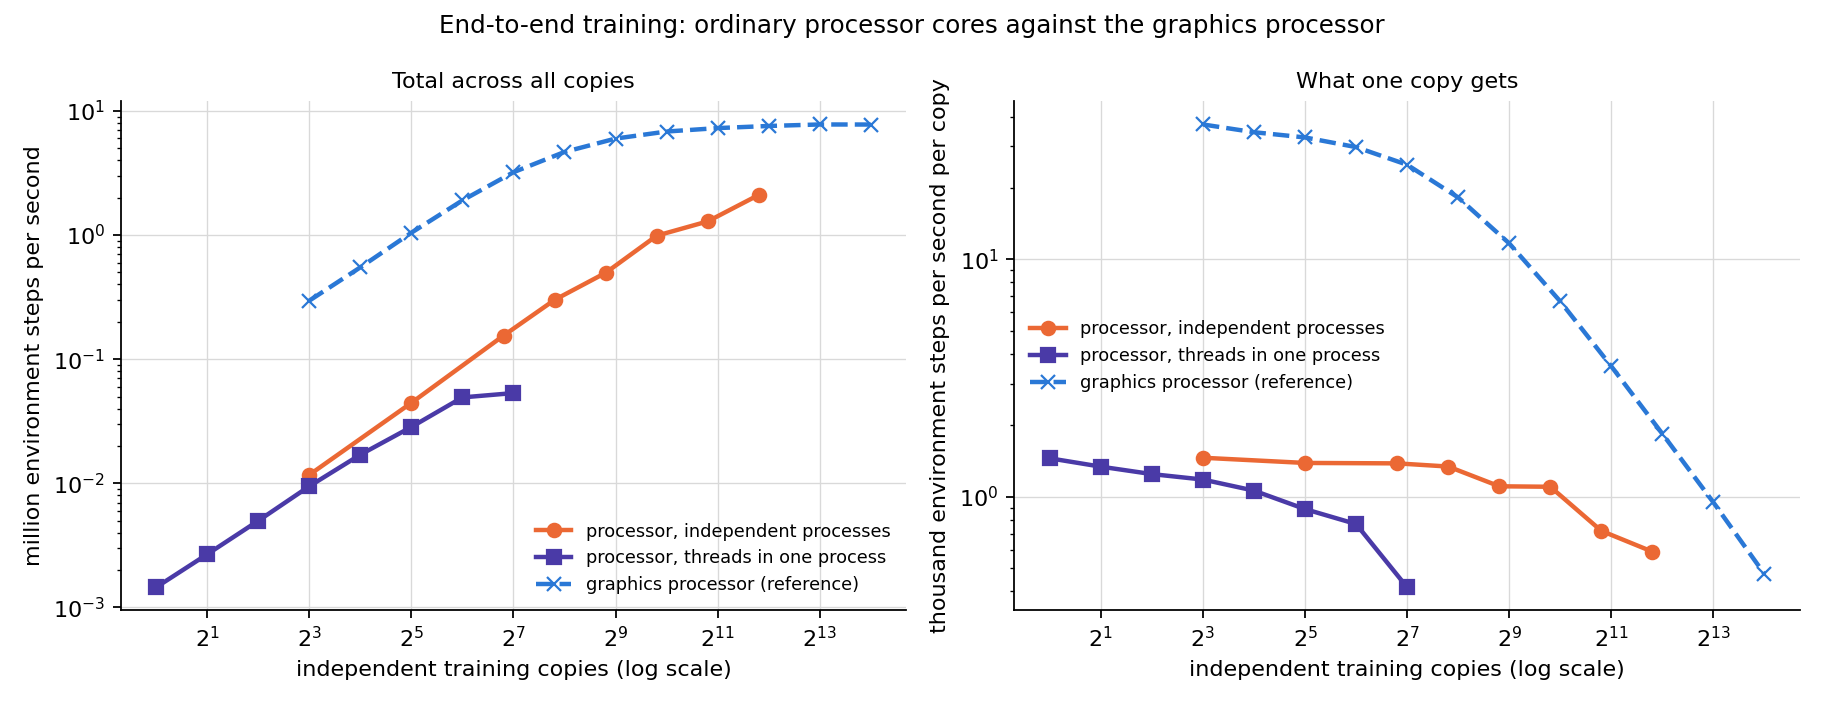
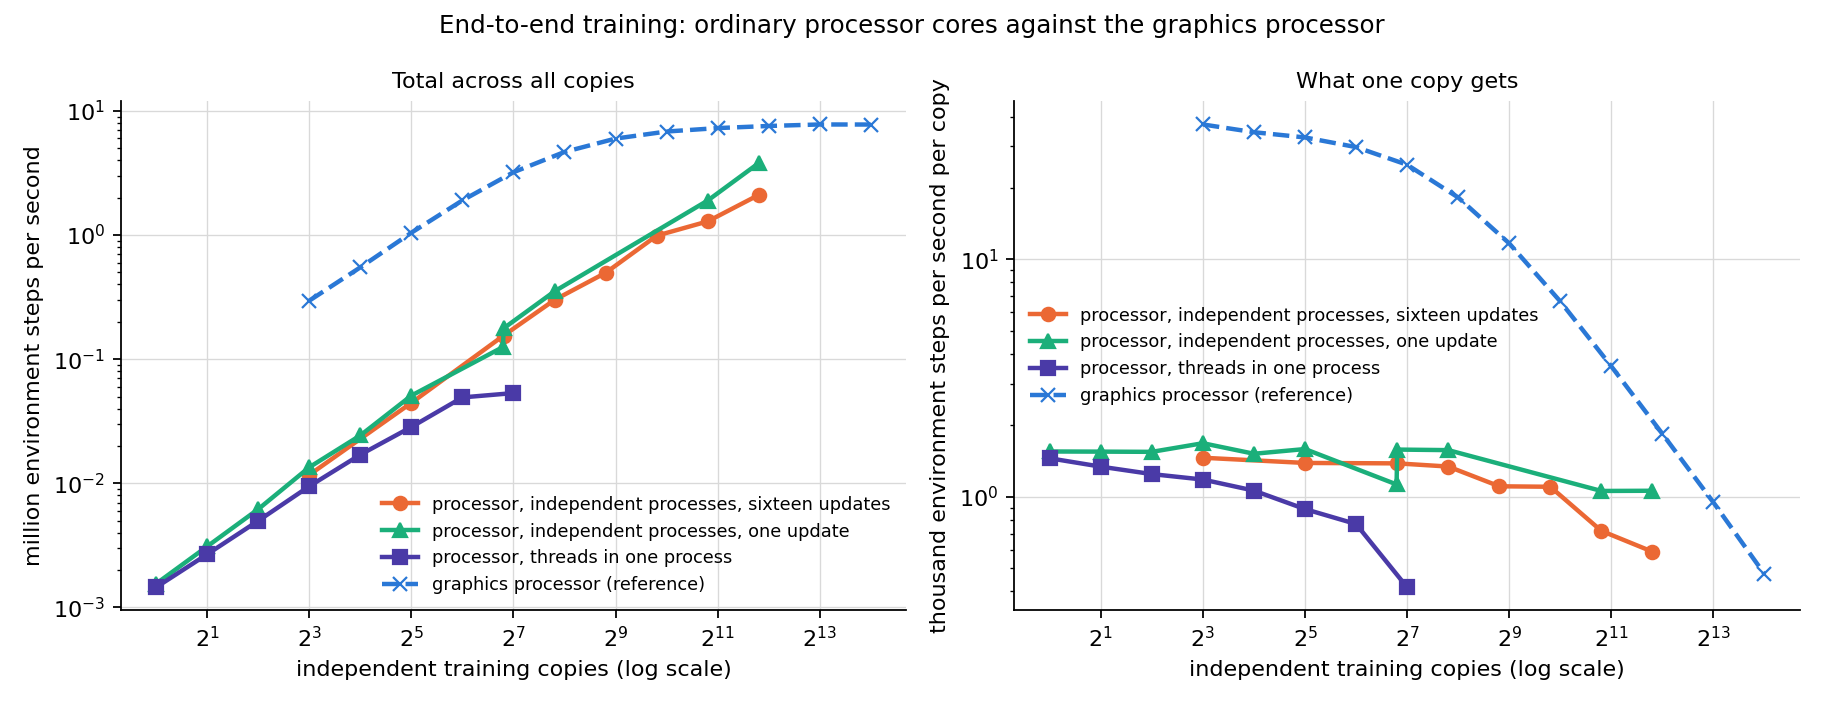
processor tables: name the copies column unambiguously
The sweep runs one copy per worker, so a single copies column equalled the worker count and gave
no way to tell whether it meant copies in total or copies on each worker. Split into copies per
worker and copies in total.

diff --git a/09_parallelization/report/2026-08-15-pointmaze-gpu-parallelization/code/cpu_node_comparison.py b/09_parallelization/report/2026-08-15-pointmaze-gpu-parallelization/code/cpu_node_comparison.py
@@ -212,11 +212,15 @@ def throughput_table(rows, note):
     """A throughput table in the project's standard columns, one row per worker count."""
     if not rows:
         return "\n*PENDING — waiting on the measurement.*\n"
-    md = ("| worker processes | copies | seconds per iteration | million steps per second | "
-          "thousand steps per second per copy | hours per million steps per copy |\n"
-          "|---|---|---|---|---|---|\n")
+    # the copies-per-worker column is 1 throughout this sweep, which is exactly why it is here:
+    # without it the copies column equals the worker count and a reader cannot tell whether it
+    # means copies in total or copies on each worker
+    md = ("| worker processes | copies per worker | copies in total | seconds per iteration | "
+          "million steps per second | thousand steps per second per copy | "
+          "hours per million steps per copy |\n|---|---|---|---|---|---|---|\n")
     for r in rows:
-        md += (f"| {r['workers']} | {r['total_copies']} | {r['sec_per_iteration']:.3f} | "
+        md += (f"| {r['workers']} | {r['total_copies'] // r['workers']} | {r['total_copies']} | "
+               f"{r['sec_per_iteration']:.3f} | "
                f"{M(r['env_steps_per_sec'])} | {K(r['env_steps_per_sec_per_copy'])} | "
                f"{H(r['env_steps_per_sec_per_copy'])} |\n")
     return md + f"\n*{note}*\n\n"

diff --git a/09_parallelization/report/2026-08-15-pointmaze-gpu-parallelization/report.md b/09_parallelization/report/2026-08-15-pointmaze-gpu-parallelization/report.md
@@ -34,12 +34,13 @@ what each round changed, then the training campaign and the sweep.
 | [What made it fast (and what did not)](#what-made-it-fast-and-what-did-not) | 2026-08-15 00:22 PT | 2026-08-15 00:22 PT | read |
 | [Reproduction](#reproduction) | 2026-08-15 00:22 PT | 2026-08-15 00:22 PT | read |
 | [How far from the hardware ceiling](#how-far-from-the-hardware-ceiling) | 2026-08-15 15:46 PT | 2026-08-15 15:46 PT | read |
-| [The same work on ordinary processor cores](#the-same-work-on-ordinary-processor-cores) | 2026-08-15 15:46 PT | 2026-08-15 16:35 PT | read |
+| <span class="updated">[The same work on ordinary processor cores](#the-same-work-on-ordinary-processor-cores)</span> | 2026-08-15 15:46 PT | 2026-08-15 17:25 PT | updated |
 | [Which implementation to use](#which-implementation-to-use) | 2026-08-15 15:46 PT | 2026-08-15 15:57 PT | read |
 | [Feature parity between the two trainers](#feature-parity-between-the-two-trainers) | 2026-08-15 15:46 PT | 2026-08-15 15:46 PT | read |
 | [Round four — closing the distance between the two trainers](#round-four-closing-the-distance-between-the-two-trainers) | 2026-08-15 15:57 PT | 2026-08-15 15:57 PT | read |
-| [End-to-end training on a dedicated processor node](#end-to-end-training-on-a-dedicated-processor-node) | 2026-08-15 16:08 PT | 2026-08-15 16:35 PT | read |
+| <span class="updated">[End-to-end training on a dedicated processor node](#end-to-end-training-on-a-dedicated-processor-node)</span> | 2026-08-15 16:08 PT | 2026-08-15 17:25 PT | updated |
 | [The best setup on each platform, at 4,096 copies or fewer](#the-best-setup-on-each-platform-at-4096-copies-or-fewer) | 2026-08-15 16:08 PT | 2026-08-15 16:35 PT | read |
+| <span class="unread">[A processor with fewer, faster cores against the 224-thread node](#a-processor-with-fewer-faster-cores-against-the-224-thread-node)</span> | 2026-08-15 17:25 PT | 2026-08-15 17:28 PT | unread |
 
 *Times are when a section's text first appeared in this document and when it last changed, taken from the document's version history. A section whose numbers were re-measured shows a later change time. All times are Pacific (PT); the machines that produced them run on Eastern Time and the values are converted for display.*
 
@@ -688,6 +689,31 @@ End-to-end training on that node, one row per setting measured:
 | processes, full_batch | 224 | 224 | 0.326 | 0.3527 | 1.57 | 0.176 |
 | processes, full_batch | 224 | 3584 | 0.481 | 3.8047 | 1.06 | 0.262 |
 | threads, full_batch | 8 | 128 | 0.904 | 0.0725 | 0.57 | 0.49 |
+| processes, full_batch | 32 | 32 | 0.715 | 0.0227 | 0.71 | 0.392 |
+| processes, full_batch | 16 | 16 | 0.340 | 0.0243 | 1.52 | 0.183 |
+| processes, full_batch | 32 | 32 | 0.709 | 0.0227 | 0.71 | 0.392 |
+| processes, full_batch | 15 | 15 | 0.378 | 0.0202 | 1.35 | 0.206 |
+| processes, full_batch | 111 | 111 | 0.453 | 0.1253 | 1.13 | 0.246 |
+| processes, full_batch | 1 | 1 | 0.330 | 0.0016 | 1.55 | 0.179 |
+| processes, full_batch | 1 | 1 | 0.373 | 0.0014 | 1.37 | 0.202 |
+| processes, full_batch | 8 | 8 | 0.330 | 0.0124 | 1.55 | 0.179 |
+| processes, full_batch | 8 | 8 | 0.378 | 0.0108 | 1.35 | 0.205 |
+| processes, full_batch | 16 | 16 | 0.341 | 0.0242 | 1.51 | 0.184 |
+| processes, full_batch | 16 | 16 | 0.378 | 0.0205 | 1.28 | 0.217 |
+| processes, full_batch | 32 | 32 | 0.347 | 0.0472 | 1.47 | 0.188 |
+| processes, full_batch | 32 | 32 | 0.712 | 0.0230 | 0.72 | 0.387 |
+| processes, full_batch | 112 | 112 | 0.443 | 0.1296 | 1.16 | 0.24 |
+| processes, full_batch | 224 | 224 | 1.008 | 0.1138 | 0.51 | 0.547 |
+| processes, full_batch | 16 | 16 | 0.379 | 0.0204 | 1.27 | 0.218 |
+| processes, full_batch | 112 | 112 | 0.451 | 0.1276 | 1.14 | 0.244 |
+| processes, full_batch | 32 | 32 | 0.721 | 0.0226 | 0.71 | 0.393 |
+| processes, full_batch | 16 | 16 | 0.380 | 0.0204 | 1.27 | 0.218 |
+| processes, full_batch | 224 | 224 | 1.009 | 0.1138 | 0.51 | 0.547 |
+| processes, full_batch | 32 | 32 | 0.721 | 0.0227 | 0.71 | 0.392 |
+| processes, full_batch | 112 | 112 | 0.454 | 0.1270 | 1.13 | 0.245 |
+| processes, full_batch | 2 | 2 | 0.378 | 0.0027 | 1.36 | 0.205 |
+| processes, full_batch | 4 | 4 | 0.378 | 0.0054 | 1.36 | 0.205 |
+| processes, full_batch | 224 | 224 | 1.013 | 0.1133 | 0.51 | 0.549 |
 
 Thread-parallel peaks at a handful of threads and then stops improving: one environment step is
 about forty small operations, and the regrouping after each one costs more than the work it
@@ -851,16 +877,16 @@ The measurements settle which is better, and the answer is not the obvious one.
 
 *One process holding every copy, the array library given 8 or 112 threads. Sixteen updates per batch.*
 
-| workers | copies each | total copies | seconds per iteration | million steps per second | thousand steps per second per copy | hours per million steps per copy |
-|---|---|---|---|---|---|---|
-| 8 | 1 | 8 | 0.349 | 0.0117 | 1.46 | 0.19 |
-| 32 | 1 | 32 | 0.370 | 0.0445 | 1.39 | 0.2 |
-| 112 | 1 | 112 | 0.370 | 0.1551 | 1.38 | 0.201 |
-| 224 | 1 | 224 | 0.379 | 0.3007 | 1.34 | 0.207 |
-| 112 | 4 | 448 | 0.464 | 0.4967 | 1.11 | 0.251 |
-| 224 | 4 | 896 | 0.456 | 0.9887 | 1.10 | 0.252 |
-| 112 | 16 | 1792 | 0.712 | 1.29 | 0.72 | 0.386 |
-| 224 | 16 | 3584 | 0.881 | 2.11 | 0.59 | 0.472 |
+| workers | copies each | total copies | seconds per iteration | million steps per second | thousand steps per second per copy | hours per million steps per copy | peak memory per worker (GB) |
+|---|---|---|---|---|---|---|---|
+| 8 | 1 | 8 | 0.349 | 0.0117 | 1.46 | 0.19 | not recorded |
+| 32 | 1 | 32 | 0.370 | 0.0445 | 1.39 | 0.2 | not recorded |
+| 112 | 1 | 112 | 0.370 | 0.1551 | 1.38 | 0.201 | not recorded |
+| 224 | 1 | 224 | 0.379 | 0.3007 | 1.34 | 0.207 | not recorded |
+| 112 | 4 | 448 | 0.464 | 0.4967 | 1.11 | 0.251 | not recorded |
+| 224 | 4 | 896 | 0.456 | 0.9887 | 1.10 | 0.252 | not recorded |
+| 112 | 16 | 1792 | 0.712 | 1.29 | 0.72 | 0.386 | not recorded |
+| 224 | 16 | 3584 | 0.881 | 2.11 | 0.59 | 0.472 | not recorded |
 
 *Independent single-thread processes. Sixteen updates per batch.*
 
@@ -910,3 +936,271 @@ arrangement is exactly what a work queue across many nodes would do. And a confi
 wins on total throughput is not the one that finishes any single copy soonest, which is why both
 rates appear in every table and both curves in every figure.
 
+
+## A processor with fewer, faster cores against the 224-thread node
+
+### The question
+
+The node measured everywhere else in this report, jaguar03, wins by having a great many cores.
+The opposite kind of machine also exists on this cluster: fewer cores, each clocked higher. Since
+this workload is one single-thread process per worker running a small policy network and a
+physics environment — many tiny dependent operations rather than large parallel arithmetic — the
+expectation going in was that the higher-clocked processor would give each worker more steps per
+second, and that the big node would win only on the total.
+
+jaguar02 was chosen to test that. It carries the highest clock printed on any processor in this
+cluster and the fewest cores per socket of its generation, and it was completely idle, so it
+could be held exclusively for the measurement exactly as jaguar03 was. The genuinely newer
+processors here, the Zen 4 parts in the serval machines, could not be used: one sits inside a
+maintenance reservation until the end of the month and the other four were each carrying another
+user's multi-day job, so none could be held exclusively.
+
+### The two processors side by side
+
+| characteristic | jaguar02 (fewer, faster cores) | jaguar03 (the big node) | where the number came from |
+|---|---|---|---|
+| model name | Intel(R) Xeon(R) Gold 6334 CPU @ 3.60GHz | AMD EPYC 7663 56-Core Processor | `lscpu` |
+| processor family / model / stepping | 6/106/6 | 25/1/1 | `lscpu` |
+| sockets | 2 | 2 | `lscpu` |
+| physical cores (whole node) | 16 | 112 | `lscpu` |
+| hardware threads per core | 2 | 2 | `lscpu` |
+| hardware threads (whole node) | 32 | 224 | `lscpu` |
+| clock printed in the model name | 3.6 GHz | none printed | `lscpu` model-name string |
+| **measured clock, one core busy** | **3.59 GHz** | **3.52 GHz** | dependent addition chain, run on the node |
+| **measured clock, every core busy** | **3.56 GHz** | **2.60 GHz** | same chain, run while the training workload occupied every other core |
+| level-1 data cache per core | 48K | 32K | `lscpu -C` |
+| level-2 cache per core | 1.3M | 512K | `lscpu -C` |
+| level-3 cache, one block | 18M | 32M | `lscpu -C` |
+| level-3 cache, whole node | 36M | 512M | `lscpu -C` |
+| cores sharing one level-3 block | 8 | 7 | cores divided by number of level-3 blocks |
+| **level-3 cache per core** | **2.25 MiB** | **4.57 MiB** | the two rows above |
+| memory type | Unbuffered-DDR4 | not readable | EDAC labels in `/sys` |
+| **memory channels per socket** | **8** | **not readable** | EDAC labels in `/sys` |
+| memory installed | 16 DIMMs | not readable | EDAC labels in `/sys` |
+| memory clock | not readable | not readable | `dmidecode` needs privileges this account does not have on these nodes |
+| memory regions the node reports | 2 | 2 | `lscpu` |
+| one dependent access, 24 KiB working set | 1.4 ns | 1.4 ns | random walk through a buffer, run on the node |
+| one dependent access, 384 KiB working set | 4.3 ns | 4.8 ns | random walk through a buffer, run on the node |
+| **one dependent access, 8 MiB working set** | **44.3 ns** | **15.6 ns** | random walk through a buffer, run on the node |
+| one dependent access, 256 MiB working set | 92.2 ns | 106.1 ns | random walk through a buffer, run on the node |
+| one core reading an 8 MiB working set | 33.6 GB/s | 61.8 GB/s | streaming read, run on the node |
+| one core reading main memory | 13.9 GB/s | 22.1 GB/s | streaming read, run on the node |
+| vector instructions the array library chose | AVX512 | AVX2 | `torch.backends.cpu.get_cpu_capability()` |
+
+*Everything above was read on the machine it describes, by the measurement job itself, not from a specification sheet. The memory clock needs privileges this account does not have on these nodes, so it is left as not readable rather than guessed. The microarchitecture names and their release years are not on the machine at all and so are not in this table either.*
+
+
+### What was measured, and why the measurement had to be made twice
+
+Independent worker processes, one thread each, one training copy each, one update per batch — the
+same configuration on both machines, and the same configuration the rest of this report's
+processor numbers use. The worker count runs from one up to each node's physical core count and
+then to its hardware thread count.
+
+Each point was measured with five timed iterations, about two seconds of work, and then again
+with 150 timed iterations, about a minute. That turned out to matter more than anything else in
+the setup. Two separate effects make a two-second measurement read high, and both of them grow
+with the worker count:
+
+1. **The clock has not settled.** A server processor runs above its sustained clock for the first
+   seconds of a load. With every core busy jaguar02 holds
+   3.56 GHz, essentially its idle
+   3.59 GHz, while jaguar03 settles from
+   3.52 GHz down to 2.60 GHz.
+   A machine with 16 cores can hold its clock with all of them working; one with 112 cannot.
+2. **The workers do not overlap.** The benchmark adds up each worker's own rate. Over seven
+   iterations, several hundred processes spend much of that time starting up at different
+   moments, so each one measures a machine that is emptier than the machine a real run sees, and
+   the sum describes a load that never existed. Over 150 iterations they all run together
+   throughout and the sum is honest.
+
+The result is that the short numbers are wrong in a way that gets worse exactly where the
+argument is decided:
+
+| node | workers | first seconds only, thousand steps/s per copy | sustained, thousand steps/s per copy | difference |
+|---|---|---|---|---|
+| jaguar02 | 1 | 1.32 | 1.37 | +4% |
+| jaguar02 | 2 | 1.35 | 1.36 | +1% |
+| jaguar02 | 4 | 1.33 | 1.36 | +2% |
+| jaguar02 | 8 | 1.36 | 1.35 | -0% |
+| jaguar02 | 16 | 1.32 | 1.27 | -4% |
+| jaguar02 | 32 | 0.71 | 0.71 | +0% |
+| jaguar03 | 1 | 1.54 | 1.55 | +1% |
+| jaguar03 | 8 | 1.68 | 1.55 | -8% |
+| jaguar03 | 16 | 1.52 | 1.51 | -1% |
+| jaguar03 | 32 | 1.59 | 1.47 | -7% |
+| jaguar03 | 112 | 1.58 | 1.14 | -28% |
+| jaguar03 | 224 | 1.57 | 0.51 | -68% |
+
+Everything from here on uses the sustained numbers, and every worker count the argument rests on
+was measured three or four times. The short measurements are kept in the figure, drawn faintly,
+because the earlier processor sections of this report were built from five-iteration runs and
+their figures for jaguar03 at high worker counts are therefore too high.
+
+### The measured comparison
+
+| node | workers (one per physical core) | measured clock while running | thousand steps per second per copy | hours per million steps per copy | steps per second per copy for each gigahertz of clock |
+|---|---|---|---|---|---|
+| jaguar02 | 16 | 3.56 GHz | 1.27 | 0.218 | 358 |
+| jaguar03 | 112 | 2.60 GHz | 1.14 | 0.244 | 439 |
+
+*This is the comparison at equal load: each machine has every one of its physical cores running one worker.*
+
+![Both nodes, total and per-copy](figures/cpu_node_comparison.png)
+
+Full sweeps, sustained:
+
+| worker processes | copies per worker | copies in total | seconds per iteration | million steps per second | thousand steps per second per copy | hours per million steps per copy |
+|---|---|---|---|---|---|---|
+| 1 | 1 | 1 | 0.373 | 0.0014 | 1.37 | 0.202 |
+| 2 | 1 | 2 | 0.378 | 0.0027 | 1.36 | 0.205 |
+| 4 | 1 | 4 | 0.378 | 0.0054 | 1.36 | 0.205 |
+| 8 | 1 | 8 | 0.378 | 0.0108 | 1.35 | 0.205 |
+| 16 | 1 | 16 | 0.379 | 0.0204 | 1.27 | 0.218 |
+| 32 | 1 | 32 | 0.721 | 0.0227 | 0.71 | 0.392 |
+
+*jaguar02: 16 physical cores, 32 hardware threads. Independent worker processes, one copy each, one update per batch, 150 timed iterations after 2 warm-up iterations.*
+
+| worker processes | copies per worker | copies in total | seconds per iteration | million steps per second | thousand steps per second per copy | hours per million steps per copy |
+|---|---|---|---|---|---|---|
+| 1 | 1 | 1 | 0.330 | 0.0016 | 1.55 | 0.179 |
+| 8 | 1 | 8 | 0.330 | 0.0124 | 1.55 | 0.179 |
+| 16 | 1 | 16 | 0.341 | 0.0242 | 1.51 | 0.184 |
+| 32 | 1 | 32 | 0.347 | 0.0472 | 1.47 | 0.188 |
+| 112 | 1 | 112 | 0.451 | 0.1276 | 1.14 | 0.244 |
+| 224 | 1 | 224 | 1.009 | 0.1138 | 0.51 | 0.547 |
+
+*jaguar03: 112 physical cores, 224 hardware threads. Same configuration.*
+
+### The second hardware thread per core
+
+Every core here can run two workers at once. Whether that is worth doing is where the two
+machines differ most, and it is the opposite of what the short measurements suggested.
+
+| node | one worker per physical core | one worker per hardware thread | what the second thread does to the total |
+|---|---|---|---|
+| jaguar02 | 16 workers, 0.0204 million steps/s | 32 workers, 0.0227 million steps/s | **+11%** |
+| jaguar03 | 112 workers, 0.1276 million steps/s | 224 workers, 0.1138 million steps/s | **-11%** |
+
+The arithmetic is simple: put two workers on a core and each of them keeps some fraction of what
+a lone worker on that core was getting. If that fraction is above one half the pair is worth it,
+and below one half it is not. On jaguar02 each of the two keeps
+56% — above half, so
+the total rises +11%. On jaguar03 each keeps only
+45% — below half, so
+the total falls -11%. **Filling all 224 of
+jaguar03's hardware threads is worse than using only its 112 physical cores.**
+That single fact decides the extrapolation below, and it is invisible in a two-second
+measurement, which reported the second thread as nearly doubling jaguar03's total.
+
+### If the newer processor had 224 threads
+
+Take jaguar02 in its best setting — 32 workers,
+0.0227 million environment steps per second across its 16
+physical cores, that is 1,419 steps per second for each physical core — and
+assume that per-core figure would survive if the same processor design had 112
+cores instead of 16. For comparison jaguar03 delivers
+1,139 steps per second per physical core in its own best setting.
+
+| what is being counted | projected jaguar02 at 112 cores | measured jaguar03 | share |
+|---|---|---|---|
+| against jaguar03 at 224 hardware threads | 0.1589 million steps/s | 0.1138 million steps/s | **140%** |
+| against jaguar03 at its best (112 workers) | 0.1589 million steps/s | 0.1276 million steps/s | **125%** |
+
+**The answer is yes.** Scaled to 112 cores and 224 hardware threads, jaguar02 projects to 0.1589 million environment steps per second, against 0.1138 million measured on jaguar03 at that same thread count — 140% of it. Comparing each machine in the setting that suits it best is fairer to jaguar03, whose best is 112 workers at 0.1276 million rather than 224 workers, and the projection still comes out ahead: 125% of jaguar03's best.
+
+**The assumption this rests on, stated plainly:** that a core in a 16-core version
+of this processor and a core in a 112-core version of it would do the same amount
+of work per second. Everything that is known about these two machines says that assumption is
+optimistic, and jaguar03 is itself the evidence, because jaguar03 *is* the experiment of
+putting 112 cores behind one memory system:
+
+1. **The clock would not survive.** Measured, not supposed. jaguar02 holds
+   3.56 GHz with 16 cores working;
+   jaguar03 falls to 2.60 GHz with 112
+   working, from 3.52 GHz idle. A 112-core version
+   of jaguar02 would meet the same power budget and give up clock the same way.
+2. **Memory bandwidth per core would fall sevenfold.** jaguar02 has
+   8 memory
+   channels feeding 8 cores on each socket, which is one channel per
+   core. Growing that socket to 56 cores without widening its memory
+   would leave each core a seventh of the bandwidth the measured part enjoys. (jaguar03's own
+   channel count cannot be read: it exposes no memory-controller entries in `/sys`, so this
+   point is made from jaguar02's readable figure alone rather than from a comparison.)
+3. **The shared cache per core would shrink the same way** — and this one is already visible in
+   the measurements. jaguar03's total *falls* when it goes from 112 workers to
+   224 precisely because each worker's share of the level-3 cache halves. A
+   112-core jaguar02 keeping today's 18M block per socket
+   would be dividing it among 56 cores instead of
+   8: 0.32 MiB
+   per core rather than 2.25, which is less than jaguar03 gives each of
+   its own cores.
+
+So the projection is an upper bound, not an estimate. The honest summary is that the two designs
+are closer than their core counts suggest, that jaguar02's cores are worth more each, and that
+scaling jaguar02 up to 112 cores would run into the very effects that are
+currently holding jaguar03 back. The one asymmetry to keep in mind: only one side of this table
+is a projection. jaguar03's numbers are measured on real workers on a real machine.
+
+### What accounts for the difference
+
+The starting expectation was that clock speed would decide this. The measurement says clock speed
+is real but secondary, and it says so twice.
+
+**Per worker, at equal load, the higher-clocked machine wins — by much less than its clock.**
+With every physical core busy, jaguar02 runs at 3.56 GHz and gives one
+worker 1.27 thousand steps per second; jaguar03 runs at
+2.60 GHz and gives one worker 1.14 thousand.
+jaguar02's clock is 37% higher but its
+per-worker rate is only 12% higher.
+Divide each rate by the clock it was reached at and jaguar03 does
+**1.23 times** as much of this work in every clock cycle. Its cores are
+individually the more effective ones at this workload; it gives most of that back by running them
+slower, which is the price of having 112 of them.
+
+**Which characteristic produces that?** The evidence points at the last-level cache — not the
+clock, not the vector units, not main memory:
+
+1. **The two are close in the small caches, and jaguar02 is ahead in main memory.** One
+   dependent access at a 24 KiB working set takes 1.4 ns on
+   jaguar02 against 1.4 on jaguar03; at 384 KiB,
+   4.3 against 4.8; in
+   main memory jaguar02 is the faster of the two,
+   92.2 ns against
+   106.1. jaguar02 also has more level-2 cache per core
+   (1.3M against 512K). None of that explains a per-cycle deficit.
+2. **At the last-level cache the order reverses, by a wide margin.** At an 8 MiB working set one
+   dependent access takes 44.3 ns on jaguar02 and
+   15.6 ns on jaguar03 — jaguar03 reaches data of that size
+   **2.8 times faster**. One
+   core streaming the same working set reads
+   34 GB/s on jaguar02 against
+   62 GB/s on jaguar03. And
+   jaguar03 has 2.0 times as much of that cache per
+   core (4.57 MiB against 2.25 MiB), because its
+   cache is cut into small blocks shared by 7 cores each rather
+   than one large block shared by 8.
+3. **The vector units are not the answer, and the measurement shows it.** The array library
+   compiled itself for AVX512 on jaguar02 and only
+   AVX2 on jaguar03 — the wider, more modern vector
+   instructions are on the machine that does *less* work per clock cycle. That is what a workload
+   of many small dependent operations looks like: the wide arithmetic has little to do, and the
+   processor that keeps a few megabytes close to the core wins instead.
+
+The same reading explains why jaguar03 loses throughput when its second hardware threads are
+used. Two workers on one core share that core's caches. jaguar02 has
+1.3M of level-2 cache per core to divide between the two, which still leaves each
+of them more than a jaguar03 core has to give a single worker (512K), so on
+jaguar02 the second worker is worth having. On jaguar03 the share being halved is the one the
+workload already depends on, and halving it costs more than the second worker brings.
+
+**One honest limit.** These measurements locate the difference — at the last-level cache rather
+than at the clock, the vector width, or main memory — by timing the memory system at each
+working-set size on both machines. They do not prove causation inside the training loop itself;
+that would need the processors' own performance counters during the run, which this account
+cannot read on these nodes. What can be said without qualification is what was measured directly:
+the higher-clocked processor wins per worker by far less than its clock advantage, it does less
+work per clock cycle, filling jaguar03's second hardware threads makes jaguar03 slower rather
+than faster, and a 224-thread version of jaguar02 projects
+125% of jaguar03's best — under an assumption that the evidence
+says is generous.
